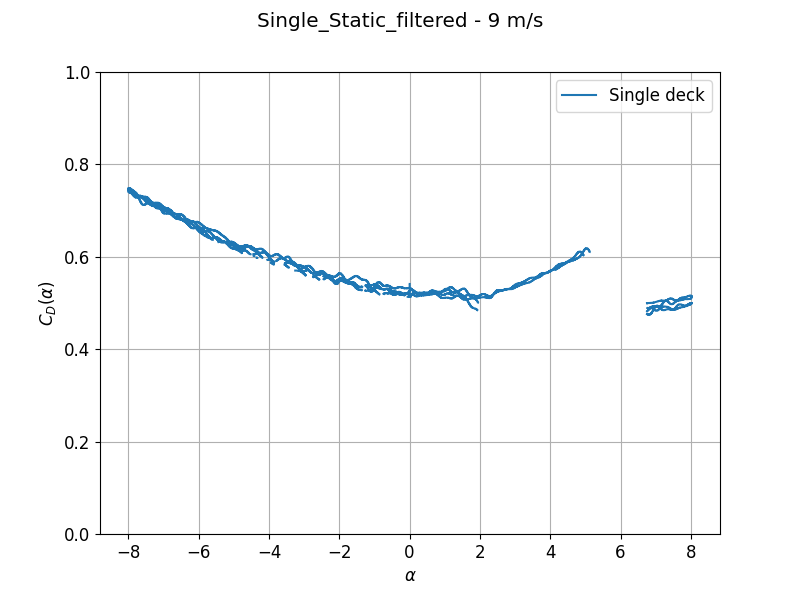
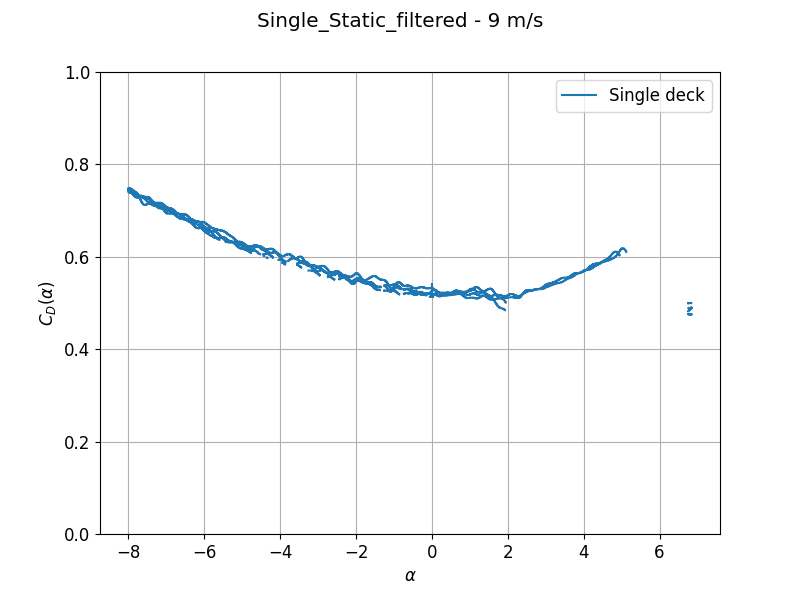
debugge

diff --git a/w3tp/w3t/_scoff.py b/w3tp/w3t/_scoff.py
@@ -1667,7 +1667,11 @@ def filter_by_reference(static_coeff_1, static_coeff_2, threshold=0.1, threshold
                     mask = np.abs(summed - ref_mean) > threshold #markerer verdier som er for langt unna referansen
                     coeff_array[idx[mask], 0] = np.nan # setter verdien til nan dersom mask er true
                     coeff_array[idx[mask], 1] = np.nan
- 
+            
+                if name == "drag":
+                    for coeff_array in [coeff_1_f, coeff_2_f] if single else [coeff_1_f, coeff_2_f]:
+                        remove_after_jump(alpha, coeff_array, threshold_jump=0.08, cols=(0, 1))
+                        
         else:
             idx3 = np.where(alpha == val)[0]
             if not (len(idx1) and len(idx2) and len(idx3)):
@@ -1808,13 +1812,10 @@ def filter_by_reference(static_coeff_1, static_coeff_2, threshold=0.1, threshold
                         mask = np.abs(summed - ref_mean_down) > threshold
                         coeff_array[idx[mask], 2] = np.nan
                         coeff_array[idx[mask], 3] = np.nan
-
-    for i, alpha in enumerate([alpha, alpha] if single else [alpha, alpha, alpha]):
-        target_arrays = [coeffs_1_filt[i], coeffs_2_filt[i]] if single else [coeffs_1_filt[i], coeffs_2_filt[i]]
-        for coeff_array in target_arrays:
-            remove_after_jump(alpha, coeff_array, threshold_jump=0.1, cols=(0, 1))
-            if not single:
-                remove_after_jump(alpha, coeff_array, threshold_jump=0.1, cols=(2, 3))
+                if name == "drag":
+                    for coeff_array in [coeff_1_f, coeff_2_f] if single else [coeff_1_f, coeff_2_f]:
+                        remove_after_jump(alpha, coeff_array, threshold_jump=0.08, cols=(0, 1))
+                        remove_after_jump(alpha, coeff_array, threshold_jump=0.08, cols=(2, 3))
 
     #samler sammen alt etter filtreringer
     static_coeff_1_f = copy.deepcopy(static_coeff_1)

diff --git a/HAR_INT/static_coeff.py b/HAR_INT/static_coeff.py
@@ -174,7 +174,7 @@ plt.savefig( os.path.join(r"C:\Users\liner\Documents\Github\Masteroppgave\HAR_IN
 #%%  Filter and plot ALT 2
 section_name = "Single_Static_filtered"
 
-static_coeff_single_6_filtered, static_coeff_single_9_filtered = w3t._scoff.filter_by_reference(static_coeff_1=static_coeff_single_6,static_coeff_2=static_coeff_single_9,threshold=0.02,  threshold_low=[0.05, 0.03,0.005], threshold_high=[0.04,0.03,0.005],single=True)
+static_coeff_single_6_filtered, static_coeff_single_9_filtered = w3t._scoff.filter_by_reference(static_coeff_1=static_coeff_single_6,static_coeff_2=static_coeff_single_9,threshold=0.015,  threshold_low=[0.05, 0.03,0.005], threshold_high=[0.04,0.03,0.005],single=True)
 
 plot_static_coeff_summary(static_coeff_single_6_filtered, section_name, 6, mode="single", upwind_in_rig=True)
 plot_static_coeff_summary(static_coeff_single_9_filtered, section_name, 9, mode="single", upwind_in_rig=True)
